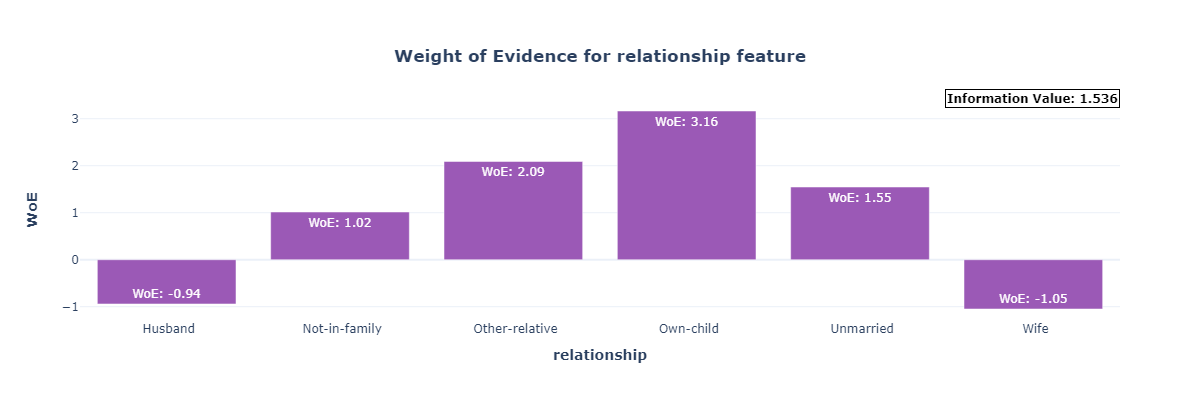
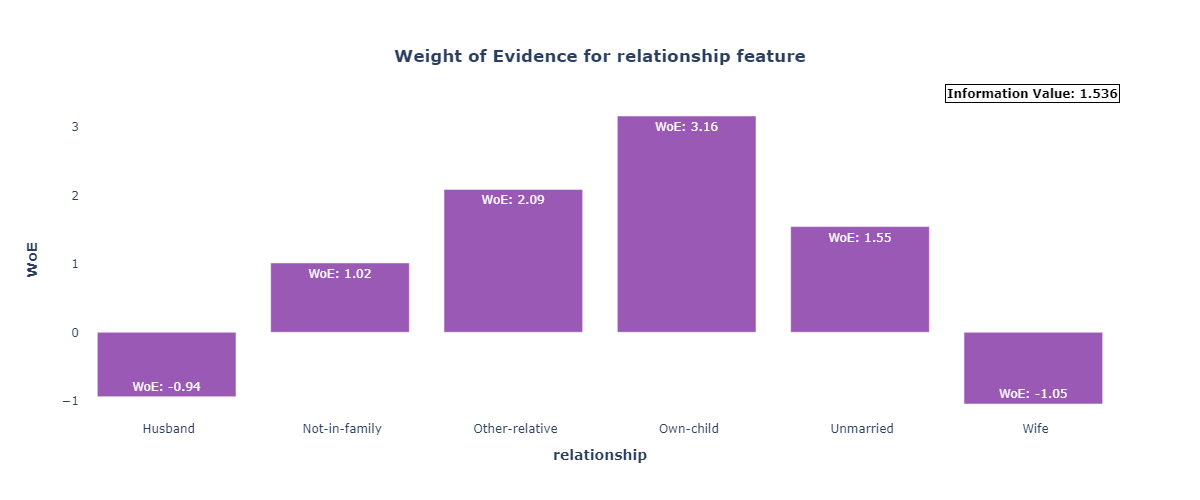
updating background setting for js and woe plots

diff --git a/scorescanner/utils/plotting.py b/scorescanner/utils/plotting.py
@@ -268,7 +268,7 @@ def plot_woe(
     fig.update_layout(
         title={
             "text": f"<b>Weight of Evidence for {feature} feature",
-            "x": 0.5,  # Center the title
+            "x": 0.5,  
             "xanchor": "center",
             "yanchor": "top",
         },
@@ -277,7 +277,10 @@ def plot_woe(
         xaxis_title=f"<b>{feature}",
         yaxis_title="<b>WoE",
         template="plotly_white",
-        hovermode="closest",  # Improve hover interaction
+        hovermode="closest",  
+        xaxis=dict(showgrid=False, zeroline=False, showticklabels=True),
+        yaxis=dict(showgrid=False, zeroline=False, showticklabels=True),
+        yaxis2=dict(showgrid=False, zeroline=False, showticklabels=True),
     )
 
     # Adding annotation for Information Value
@@ -368,6 +371,9 @@ def plot_js(
         xaxis_title=f"<b>{feature}",
         yaxis_title="<b>JS Distance",
         template="plotly_white",
+        xaxis=dict(showgrid=False, zeroline=False, showticklabels=True),
+        yaxis=dict(showgrid=False, zeroline=False, showticklabels=True),
+        yaxis2=dict(showgrid=False, zeroline=False, showticklabels=True),
     )
 
     return fig
